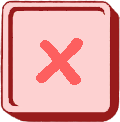
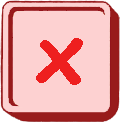
changed buttons, only click when clownface is on, removed ladder from training

Changed region(s): [[0.3, 0.2951, 0.7, 0.7131]]

diff --git a/Matlab/Expe_Emotion.m b/Matlab/Expe_Emotion.m
@@ -22,10 +22,10 @@ function Expe_Emotion(varargin)
             spriteKitPath = '/home/paolot/gitStuff/Beautiful/lib/SpriteKit';
             options.result_path = '/home/paolot/results/Emotion'; 
         else
-            spriteKitPath = '/Users/laptopKno/Github/Beautiful/lib/SpriteKit';
-            options.result_path = '/Users/laptopKno/Github/Results/Emotion/Result files';
-%             spriteKitPath = 'C:/Users/Jacqueline Libert/Documents/GitHub/BeautifulFishy/lib/SpriteKit';
-%             options.result_path = 'C:/Users/Jacqueline Libert/Documents/Github/Results/Emotion/Result files';
+            %spriteKitPath = '/Users/laptopKno/Github/Beautiful/lib/SpriteKit';
+            %options.result_path = '/Users/laptopKno/Github/Results/Emotion/Result files';
+             spriteKitPath = 'C:/Users/Jacqueline Libert/Documents/GitHub/BeautifulFishy/lib/SpriteKit';
+             options.result_path = 'C:/Users/Jacqueline Libert/Documents/Github/Results/Emotion/Data';
         end
     end
     addpath(spriteKitPath);
@@ -68,14 +68,22 @@ function Expe_Emotion(varargin)
             gameCommands.State = 'empty';
         end
         
+        
         if itrial == 1
-            Clown.State = 'neutral'; % should be neutral? 
-            Clownladder.State = 'ground';
-            ExtraClown.State = 'on';
+            Clown.State = 'neutral';  
+            if (strcmp(phase, 'training'))
+                Clownladder.State = 'empty';
+                 ExtraClown.State = 'empty';
+                 Pool.State = 'empty'; 
+            else
+                Clownladder.State = 'ground';
+                Pool.State = 'pool'; 
+                ExtraClown.State = 'on';
+            end
             Confetti.State = 'off';
         end      
         
-        Pool.State = 'pool';
+        
         Buttonup.State = 'off';
         Buttondown.State = 'off';
         Parrot.State = 'neutral';
@@ -152,7 +160,6 @@ function Expe_Emotion(varargin)
             response.filename = emotionvoices(indexes(toPlay)).name;
             response.correct = (response.button_clicked == expe.(phase).condition(itrial).congruent);
             if response.correct 
-                % Clown.State = 'joyful';
                 for confettiState = 1:7
                     Confetti.State = sprintf('confetti_%d', confettiState);
                     pause(0.2)
@@ -181,11 +188,12 @@ function Expe_Emotion(varargin)
         
         save(options.res_filename, 'options', 'expe', 'resp');
         
-%         fprintf('Trial: %d\n', itrial);
+%       fprintf('Trial: %d\n', itrial);
         if expe.test.condition(itrial).clownladderNmove
             
             %itrial = 12; % 3, 7, 12
-            if ~ expe.test.condition(itrial).splash
+            if (strcmp(phase, 'test'))
+                if ~ expe.test.condition(itrial).splash
                 
                 for iState = 1 : expe.test.condition(itrial).clownladderNmove
                     %                 fprintf('%i', ladderStep)
@@ -196,47 +204,45 @@ function Expe_Emotion(varargin)
                     ladderStep = ladderStep + 1;
                 end
             else
-                Clownladder.State = sprintf('clownladder_%d%c',mod(ladderStep, 9),'a');
-                pause (0.2)
-                Clownladder.State = sprintf('clownladder_%d%c',mod(ladderStep, 9),'b');
-                pause (0.2)
-                for ijump = 1:10
-                    Clownladder.State = sprintf('clownladder_jump_%d', ijump);
-                    pause(0.2)
+                
+                    Clownladder.State = sprintf('clownladder_%d%c',mod(ladderStep, 9),'a');
+                    pause (0.2)
+                    Clownladder.State = sprintf('clownladder_%d%c',mod(ladderStep, 9),'b');
+                    pause (0.2)
+                    for ijump = 1:10
+                        Clownladder.State = sprintf('clownladder_jump_%d', ijump);
+                        pause(0.2)
+                    end
+                    Clownladder.State = 'empty';
+                    ladder_jump11.State = 'ladder_jump_11';
+                    clown_jump11.State = 'clown_jump_11';
+                    for isplash = 1:3
+                        Splash.State = sprintf('sssplash_%d', isplash);
+                        pause(0.1)
+                    end
+                    pause (0.5)
+                    Splash.State = 'empty';
+                    ladder_jump11.State = 'empty';
+                    clown_jump11.State = 'empty';
+                    ExtraClown.State = 'empty';
+                    Clownladder.State = 'ground';
+                    ladderStep = 1;
+                    for idrop = 1:2
+                        Drops.State = sprintf('sssplashdrops_%d', idrop);
+                        pause(0.2)
+                    end
+                    Drops.State = 'empty';
                 end
-                Clownladder.State = 'empty';
-                ladder_jump11.State = 'ladder_jump_11';
-                clown_jump11.State = 'clown_jump_11';
-                for isplash = 1:3
-                    Splash.State = sprintf('sssplash_%d', isplash);
-                    pause(0.1)
-                end
-                pause (0.5)
-                Splash.State = 'empty';
-                ladder_jump11.State = 'empty';
-                clown_jump11.State = 'empty';
-                ExtraClown.State = 'empty';
-                Clownladder.State = 'ground';
-                ladderStep = 1;
-                for idrop = 1:2
-                    Drops.State = sprintf('sssplashdrops_%d', idrop);
-                    pause(0.2)
-                end
-                Drops.State = 'empty';
             end
-            
         end
-
-
         
         if itrial == options.(phase).total_ntrials
-            gameCommands.Scale = 2; 
+            gameCommands.Scale = 4; 
             gameCommands.State = 'finish';
         end
         
         % remove just played file from list of possible sound files
         emotionvoices(indexes(toPlay)) = [];
-
         
     end
 
@@ -252,6 +258,8 @@ function Expe_Emotion(varargin)
             response.response_time = toc();
             response.button_clicked = 0; % default in case they click somewhere else
             
+          if Clown.State == expe.(phase).condition(itrial).facelabel
+          
             if (locClick(1) >= Buttonup.clickL) && (locClick(1) <= Buttonup.clickR) && ...
                     (locClick(2) >= Buttonup.clickD) && (locClick(2) <= Buttonup.clickU)
                 Buttonup.State = 'press';
@@ -271,7 +279,8 @@ function Expe_Emotion(varargin)
                 uiresume;
                 tic();
             end
-            
+          end
+          
 %             uiresume;
             
         else

diff --git a/Matlab/EmotionGame.m b/Matlab/EmotionGame.m
@@ -59,7 +59,7 @@ function [G, Clown, Buttonup, Buttondown, gameCommands, Confetti, Parrot, ...
 %       Buttons 
     Buttonup = SpriteKit.Sprite ('buttonup'); 
     Buttonup.initState ('on','../Images/button_right.png', true);
-    Buttonup.initState('press', '../Images/buttonuppress_1.png', true)
+    Buttonup.initState('press', '../Images/button_right_pressed.png', true)
     Buttonup.initState ('off', ones(1,1,3), true); 
     Buttonup.Location = [screen2(3)/2.25, screen2(4)/6];
     Buttonup.State = 'off';
@@ -80,7 +80,7 @@ function [G, Clown, Buttonup, Buttondown, gameCommands, Confetti, Parrot, ...
     
     Buttondown = SpriteKit.Sprite ('buttondown'); 
     Buttondown.initState ('on','../Images/button_wrong.png', true);
-    Buttondown.initState ('press', '../Images/buttondownpress_1.png', true);
+    Buttondown.initState ('press', '../Images/button_wrong_pressed.png', true);
     Buttondown.initState ('off', ones(1,1,3), true);
     Buttondown.Location = [screen2(3)/1.75, screen2(4)/6];
     Buttondown.State = 'off';
